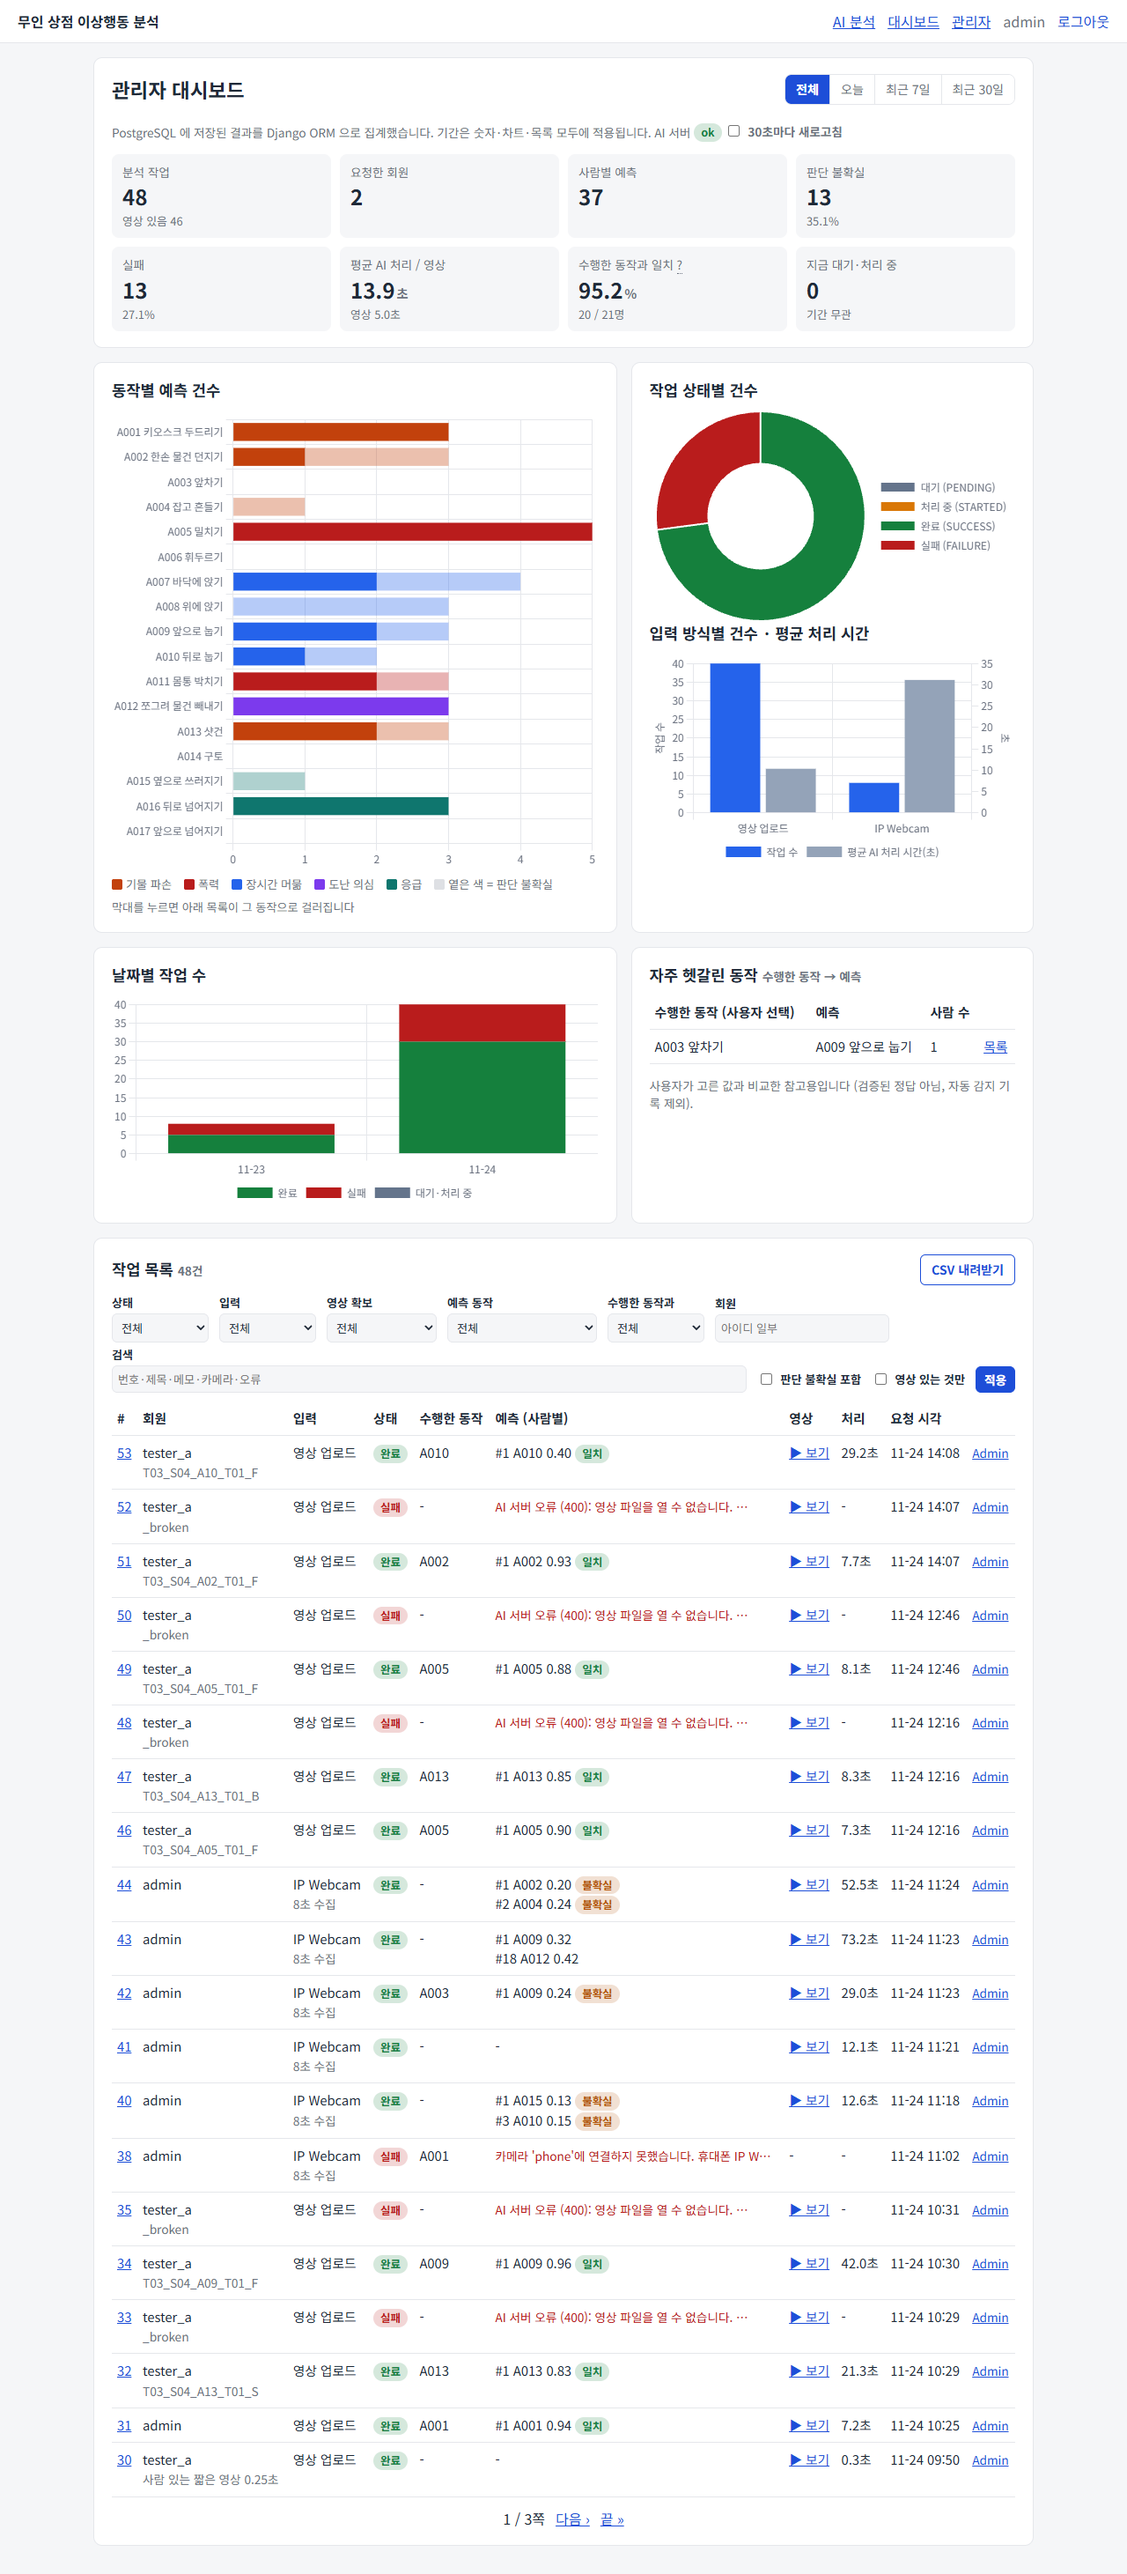
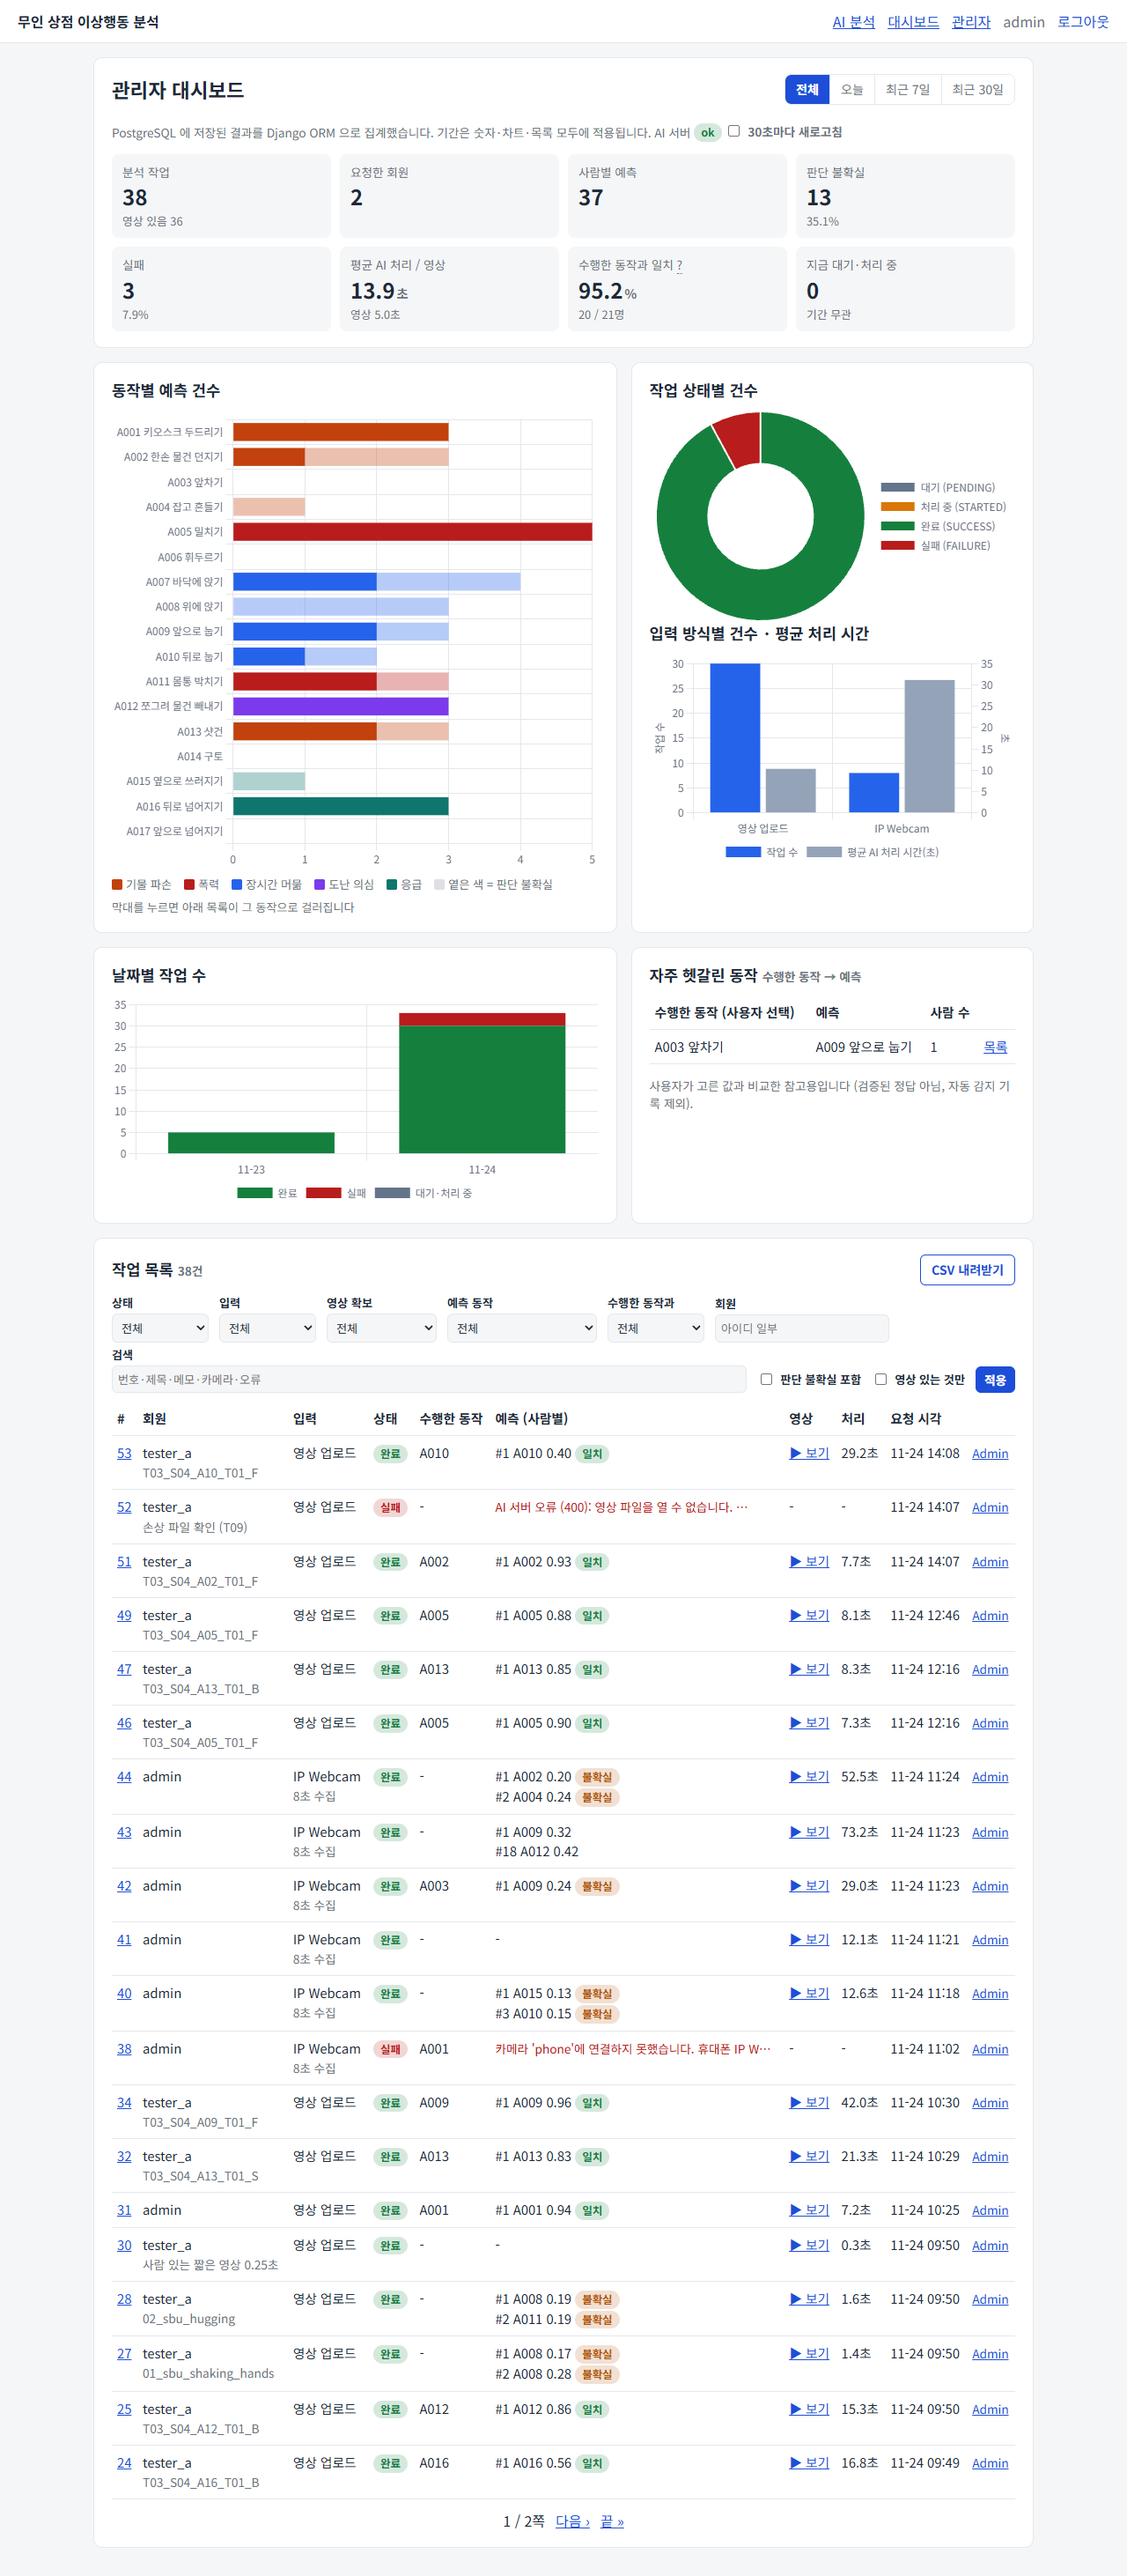
시연 정리: E2E 손상 파일 기록 자동 삭제 · 실패 영상은 내려받기만 · 숫자·캡처 갱신
- e2e_check.py: T09 손상 파일 작업을 확인 뒤 본인 DELETE 로 지움(대시보드 실패 건수가 시험 기록으로 늘지 않게), 끝난 작업마다 영상 Range 요청 확인
- 실패 + 재생용 사본 없음이면 빈 플레이어 대신 원본 내려받기 링크만 (상세·기록·대시보드 목록)
- ai_service/src/temporal_cnn.py: 데이터 저장소와 같게 (fit_cnn make_model 선택 인자, 추론 동작 같음 — 시연 영상 예측 그대로 확인)
- README: 21번을 공통 학습 함수로 합친 뒤 재현 숫자(4-fold 87.9, 약한 동작 67~75%), 로컬 테스트 41개
- 캡처 다시 찍음 (시연 DB 정리 후)

diff --git a/backend/static/js/analyses.js b/backend/static/js/analyses.js
@@ -156,7 +156,7 @@
           <td>${j.expected_action ? Util.esc(j.expected_action_display) : "-"}</td>
           <td>${j.predictions.map(View.predictionLine).join("<br>") || (j.status === "FAILURE" ? `<span class="error">${Util.esc(j.error_message)}</span>` : Util.esc(j.result_message) || "-")}</td>
           <td>${View.badge(j.status)}</td>
-          <td class="nowrap">${j.video_url ? `<a href="/analyses/${j.id}/#video">▶ 보기</a>` : "-"}</td>
+          <td class="nowrap">${Player.playable(j) ? `<a href="/analyses/${j.id}/#video">▶ 보기</a>` : "-"}</td>
           <td class="nowrap">${Util.sec(j.processing_seconds)}</td>
           <td class="nowrap">${Util.time(j.created_at)}</td></tr>`).join("")
         : '<tr><td colspan="8" class="muted">아직 분석 기록이 없습니다.</td></tr>';
@@ -171,7 +171,8 @@
           job.live_snapshot.map((p) => `#${p.track_id} ${View.actionText(p)}`
             + (p.streak_seconds ? ` (${Util.sec(p.streak_seconds)} 이어짐)` : "")).join("<br>")
           + '<br><span class="muted small">아래 결과는 저장한 영상을 업로드와 같은 방법으로 다시 분석한 값입니다 (Track 번호는 다시 매김).</span>']] : []),
-        ["영상", job.video_name ? `${Util.esc(job.video_name)} (${Util.mb(job.video_size)})` : "-"],
+        ["영상", job.video_name ? `${Util.esc(job.video_name)} (${Util.mb(job.video_size)})`
+          + (job.video_url && !Player.playable(job) ? ` · <a href="${job.download_url}">원본 내려받기</a>` : "") : "-"],
         ["수행한 동작(사용자 선택)", job.expected_action ? Util.esc(job.expected_action_display) : "-"],
         ["영상 길이 / AI 처리 시간", `${Util.sec(job.video_seconds)} / ${Util.sec(job.processing_seconds)}`],
         ["요청 / 완료", `${Util.time(job.created_at)} / ${Util.time(job.finished_at)}`],
@@ -185,14 +186,17 @@
 
   // ── Player: 결과 화면의 분석 영상 + 구간별 예측 (누르면 그 시점으로) ──
   const Player = {
+    playable(job) {                               // 실패 + 사본 없음 = 열리지 않는 파일일 가능성 → 플레이어 숨김
+      return Boolean(job.video_url) && (job.status !== "FAILURE" || job.playback_ready);
+    },
     src(job) {                                    // 재생용 사본이 생기면 주소가 바뀌어 새로 받는다
       return `${job.video_url}?v=${job.playback_ready ? "p" : "o"}`;
     },
     show(job) {
       const box = Util.$("#video-box");
       if (!box) return;
-      box.hidden = !job.video_url;
-      if (!job.video_url) { Util.$("#video-windows").innerHTML = ""; return; }
+      box.hidden = !Player.playable(job);
+      if (box.hidden) { Util.$("#video-windows").innerHTML = ""; return; }
       const v = Util.$("#job-video");
       const want = Player.src(job);
       if (v.dataset.src !== want) {               // 상태 조회 때마다 다시 넣으면 재생이 처음으로 돌아감

diff --git a/backend/templates/analyses/dashboard.html b/backend/templates/analyses/dashboard.html
@@ -94,7 +94,7 @@
         <td><span class="badge s-{{ j.status }}">{{ j.get_status_display }}</span></td>
         <td>{{ j.expected_action|default:"-" }}</td>
         <td>{% for p in j.predictions.all %}#{{ p.track_id }} {{ p.action_id }} {{ p.confidence|floatformat:2 }}{% if p.uncertain %} <span class="badge warn">불확실</span>{% endif %}{% if j.expected_action %}{% if p.action_id == j.expected_action %} <span class="badge ok">일치</span>{% endif %}{% endif %}{% if not forloop.last %}<br>{% endif %}{% empty %}{% if j.status == 'FAILURE' %}<span class="error small">{{ j.error_message|truncatechars:34 }}</span>{% else %}-{% endif %}{% endfor %}</td>
-        <td class="nowrap">{% if j.video %}<a href="{% url 'analyses:detail' j.pk %}#video" title="결과 화면에서 영상 보기">▶ 보기</a>{% else %}-{% endif %}</td>
+        <td class="nowrap">{% if j.video and j.status != "FAILURE" or j.playback %}<a href="{% url 'analyses:detail' j.pk %}#video" title="결과 화면에서 영상 보기">▶ 보기</a>{% else %}-{% endif %}</td>
         <td class="nowrap">{% if j.processing_seconds %}{{ j.processing_seconds|floatformat:1 }}초{% else %}-{% endif %}</td>
         <td class="nowrap">{{ j.created_at|date:"m-d H:i" }}</td>
         <td><a class="small" href="{% url 'admin:analyses_analysisjob_change' j.pk %}">Admin</a></td></tr>

diff --git a/scripts/e2e_check.py b/scripts/e2e_check.py
@@ -2,7 +2,8 @@
 
   python scripts/e2e_check.py <영상.mp4> [<영상2.mp4> ...]
 
-.env 의 DEMO_* 계정을 쓴다. 확인 항목: T02 업로드, T05 즉시 반환, T06 저장, T07 다른 회원 접근, T09 잘못된 파일, T08 대시보드.
+.env 의 DEMO_* 계정을 쓴다. 확인 항목: T02 업로드, T05 즉시 반환, T06 저장, 영상 재생(Range), T07 다른 회원 접근,
+T09 잘못된 파일, T08 대시보드. T09 용 손상 파일 작업은 확인이 끝나면 지운다 (대시보드 실패 건수가 시험 기록으로 늘지 않게).
 """
 from __future__ import annotations
 
@@ -81,13 +82,18 @@ def main() -> None:
             mark = ("일치" if pr["action_id"] == expected else "불일치") if expected else "정답 없음"
             print(f"      track {pr['track_id']}: {pr['action_id']} {pr['action_name_ko']} {pr['confidence']:.2f}"
                   f"{' (불확실)' if pr['uncertain'] else ''} · 수행 {expected} → {mark}")
+        if job.get("video_url"):
+            v = a.get(BASE + job["video_url"], headers={"Range": "bytes=0-99"})
+            print(f"      영상 보기: HTTP {v.status_code} {v.headers.get('Content-Range', '')} · "
+                  f"재생용 사본 {'있음' if job['playback_ready'] else '없음(원본)'}")
 
     bad = ROOT / "scripts" / "_broken.mp4"
     bad.write_bytes(b"this is not a video")
     sub = submit(a, str(bad))
     job = wait(a, sub["body"]["id"])
     bad.unlink()
-    ids.append(job["id"])
+    broken_id = job["id"]
+    ids.append(broken_id)
     print(f"[T09] 손상 파일: HTTP {sub['status_code']} → {job['status']} · {job['error_message']}")
     r = a.post(f"{BASE}/api/analyses/", data={"input_type": "UPLOAD"}, files={"video": ("note.txt", b"x")})
     print(f"[T09] 잘못된 확장자: HTTP {r.status_code} {r.json()}")
@@ -98,6 +104,8 @@ def main() -> None:
         print(f"[T07] B 가 A 의 작업 조회/수정/삭제: {codes} · B 목록 {b.get(BASE + '/api/analyses/').json()['count']}건")
         r = a.patch(url, json={"memo": "e2e 확인", "status": "FAILURE"})
         print(f"[T07] A PATCH 메모: HTTP {r.status_code} · 상태 그대로 {r.json()['status']} · PUT {a.put(url, json={}).status_code}")
+    r = a.delete(f"{BASE}/api/analyses/{broken_id}/")
+    print(f"[정리] 손상 파일 작업 #{broken_id} 삭제 (본인 DELETE): HTTP {r.status_code}")
     adm = login(env["DEMO_ADMIN_USERNAME"], env["DEMO_ADMIN_PASSWORD"])
     print(f"[T08] /dashboard/ 관리자 {adm.get(BASE + '/dashboard/').status_code} · 일반 회원 "
           f"{a.get(BASE + '/dashboard/', allow_redirects=False).status_code}")

diff --git a/ai_service/src/temporal_cnn.py b/ai_service/src/temporal_cnn.py
@@ -12,6 +12,8 @@
 """
 from __future__ import annotations
 
+from typing import Callable
+
 import numpy as np
 import torch
 from torch import nn
@@ -55,8 +57,12 @@ def crop_batch(x: torch.Tensor, cut: float = 0.15) -> torch.Tensor:
 
 
 def fit_cnn(Xseq: np.ndarray, y: np.ndarray, seed: int, n_cls: int, epochs: int = 120,
-            device: str | None = None, width: int = 64):
-    """Xseq (n, C, T), y 정수 0..n_cls-1 → (eval 상태 모델, mu, sd)"""
+            device: str | None = None, width: int = 64,
+            make_model: Callable[[int, int], nn.Module] | None = None):
+    """Xseq (n, C, T), y 정수 0..n_cls-1 → (eval 상태 모델, mu, sd)
+
+    make_model(채널 수, Class 수): 다른 시간 모델을 같은 학습 규칙으로 비교할 때만 (21번 실험의 GRU). 기본은 CNN.
+    """
     device = device or ("cuda" if torch.cuda.is_available() else "cpu")
     torch.manual_seed(seed)
     np.random.seed(seed)
@@ -66,7 +72,7 @@ def fit_cnn(Xseq: np.ndarray, y: np.ndarray, seed: int, n_cls: int, epochs: int 
     sd = (Xseq.std((0, 2), keepdims=True) + 1e-6).astype(np.float32)
     xt = torch.tensor((Xseq - mu) / sd, device=device)
     yt = torch.tensor(y, device=device)
-    model = CNN(xt.shape[1], n_cls, w=width).to(device)
+    model = (make_model(xt.shape[1], n_cls) if make_model else CNN(xt.shape[1], n_cls, w=width)).to(device)
     opt = torch.optim.AdamW(model.parameters(), lr=2e-3, weight_decay=1e-2)
     sched = torch.optim.lr_scheduler.OneCycleLR(opt, max_lr=2e-3, total_steps=epochs * ((len(xt) + 31) // 32))
     loss_fn = nn.CrossEntropyLoss(label_smoothing=0.1)
